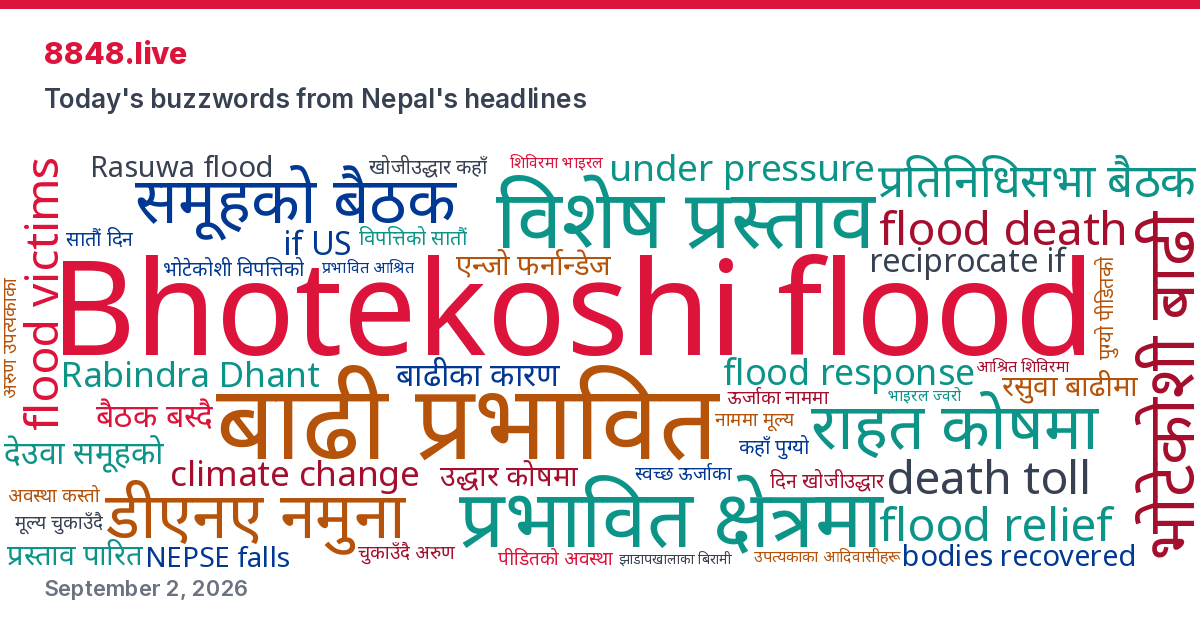
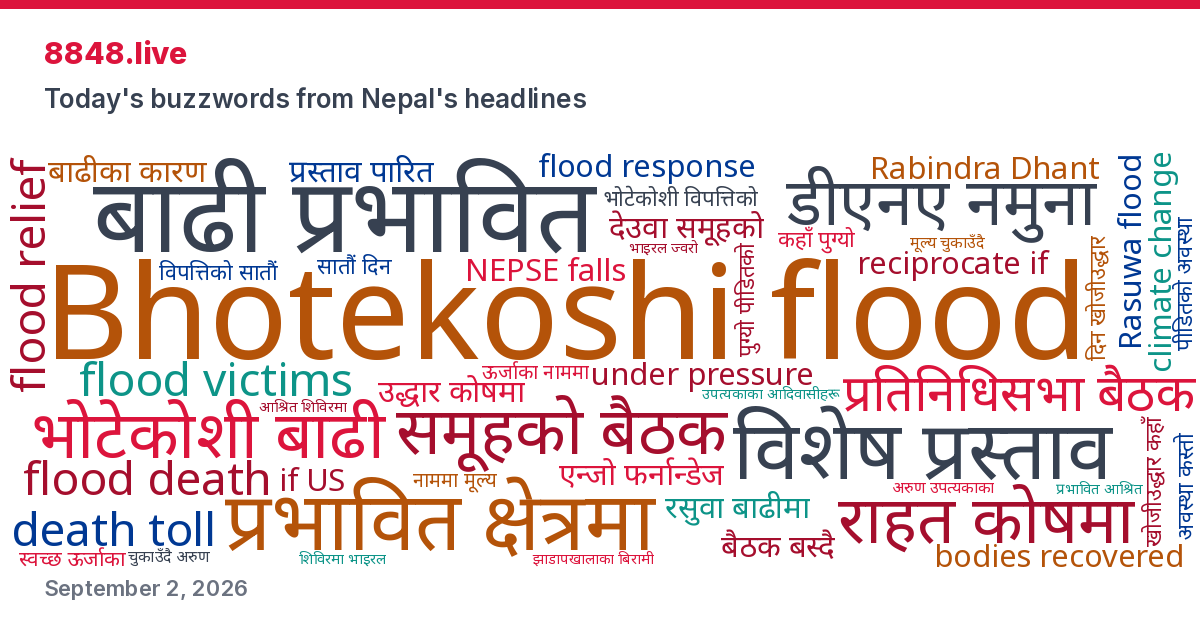
Fix generate_share_images.py for category-box format; regenerate Sept 2 share cards
parse_post()'s outlet-box split/name regexes assumed the old single-outlet,
plain-text outlet-name markup. Updated both to also match the category-box
format's class="outlet-box category-box..." variants and its nested
bilingual <span data-lang-en>/<span data-lang-np> outlet-name markup (falls
back to the old plain-text pattern for backward compatibility). Verified via
a dry-run parse against the new Sept 2 post (all 10 categories detected) and
a full run that produced clean per-category share PNGs + OG share pages.

diff --git a/share/2026-09-02/infrastructure-economic-damage/index.html b/share/2026-09-02/infrastructure-economic-damage/index.html
@@ -1,0 +1,26 @@
+<!DOCTYPE html>
+<html lang="en">
+<head>
+<meta charset="utf-8">
+<title>Infrastructure &amp; Economic Damage — top headlines, September 2, 2026</title>
+<meta property="og:type" content="article">
+<meta property="og:title" content="Infrastructure &amp; Economic Damage — top headlines, September 2, 2026">
+<meta property="og:description" content="Today&#x27;s top headlines from Infrastructure &amp; Economic Damage, via 8848.live.">
+<meta property="og:image" content="https://8848.live/assets/shares/2026-09-02/infrastructure-economic-damage.png">
+<meta property="og:image:secure_url" content="https://8848.live/assets/shares/2026-09-02/infrastructure-economic-damage.png">
+<meta property="og:image:type" content="image/png">
+<meta property="og:image:width" content="1200">
+<meta property="og:image:height" content="630">
+<meta property="og:url" content="https://8848.live/share/2026-09-02/infrastructure-economic-damage/">
+<meta property="og:site_name" content="8848.live">
+<meta name="twitter:card" content="summary_large_image">
+<meta name="twitter:title" content="Infrastructure &amp; Economic Damage — top headlines, September 2, 2026">
+<meta name="twitter:description" content="Today&#x27;s top headlines from Infrastructure &amp; Economic Damage, via 8848.live.">
+<meta name="twitter:image" content="https://8848.live/assets/shares/2026-09-02/infrastructure-economic-damage.png">
+<link rel="canonical" href="https://8848.live/2026/09/02/nepal-news-digest/#outlet-infrastructure-economic-damage">
+</head>
+<body>
+<p>Redirecting to <a href="https://8848.live/2026/09/02/nepal-news-digest/#outlet-infrastructure-economic-damage">the full digest</a>&hellip;</p>
+<script>setTimeout(function () { location.replace("https://8848.live/2026/09/02/nepal-news-digest/#outlet-infrastructure-economic-damage"); }, 300);</script>
+</body>
+</html>

diff --git a/share/2026-09-02/tunnel-hydropower-rescue/index.html b/share/2026-09-02/tunnel-hydropower-rescue/index.html
@@ -1,0 +1,26 @@
+<!DOCTYPE html>
+<html lang="en">
+<head>
+<meta charset="utf-8">
+<title>Tunnel &amp; Hydropower Rescue — top headlines, September 2, 2026</title>
+<meta property="og:type" content="article">
+<meta property="og:title" content="Tunnel &amp; Hydropower Rescue — top headlines, September 2, 2026">
+<meta property="og:description" content="Today&#x27;s top headlines from Tunnel &amp; Hydropower Rescue, via 8848.live.">
+<meta property="og:image" content="https://8848.live/assets/shares/2026-09-02/tunnel-hydropower-rescue.png">
+<meta property="og:image:secure_url" content="https://8848.live/assets/shares/2026-09-02/tunnel-hydropower-rescue.png">
+<meta property="og:image:type" content="image/png">
+<meta property="og:image:width" content="1200">
+<meta property="og:image:height" content="630">
+<meta property="og:url" content="https://8848.live/share/2026-09-02/tunnel-hydropower-rescue/">
+<meta property="og:site_name" content="8848.live">
+<meta name="twitter:card" content="summary_large_image">
+<meta name="twitter:title" content="Tunnel &amp; Hydropower Rescue — top headlines, September 2, 2026">
+<meta name="twitter:description" content="Today&#x27;s top headlines from Tunnel &amp; Hydropower Rescue, via 8848.live.">
+<meta name="twitter:image" content="https://8848.live/assets/shares/2026-09-02/tunnel-hydropower-rescue.png">
+<link rel="canonical" href="https://8848.live/2026/09/02/nepal-news-digest/#outlet-tunnel-hydropower-rescue">
+</head>
+<body>
+<p>Redirecting to <a href="https://8848.live/2026/09/02/nepal-news-digest/#outlet-tunnel-hydropower-rescue">the full digest</a>&hellip;</p>
+<script>setTimeout(function () { location.replace("https://8848.live/2026/09/02/nepal-news-digest/#outlet-tunnel-hydropower-rescue"); }, 300);</script>
+</body>
+</html>

diff --git a/share/2026-09-02/weather-additional-risk/index.html b/share/2026-09-02/weather-additional-risk/index.html
@@ -1,0 +1,26 @@
+<!DOCTYPE html>
+<html lang="en">
+<head>
+<meta charset="utf-8">
+<title>Weather &amp; Additional Risk — top headlines, September 2, 2026</title>
+<meta property="og:type" content="article">
+<meta property="og:title" content="Weather &amp; Additional Risk — top headlines, September 2, 2026">
+<meta property="og:description" content="Today&#x27;s top headlines from Weather &amp; Additional Risk, via 8848.live.">
+<meta property="og:image" content="https://8848.live/assets/shares/2026-09-02/weather-additional-risk.png">
+<meta property="og:image:secure_url" content="https://8848.live/assets/shares/2026-09-02/weather-additional-risk.png">
+<meta property="og:image:type" content="image/png">
+<meta property="og:image:width" content="1200">
+<meta property="og:image:height" content="630">
+<meta property="og:url" content="https://8848.live/share/2026-09-02/weather-additional-risk/">
+<meta property="og:site_name" content="8848.live">
+<meta name="twitter:card" content="summary_large_image">
+<meta name="twitter:title" content="Weather &amp; Additional Risk — top headlines, September 2, 2026">
+<meta name="twitter:description" content="Today&#x27;s top headlines from Weather &amp; Additional Risk, via 8848.live.">
+<meta name="twitter:image" content="https://8848.live/assets/shares/2026-09-02/weather-additional-risk.png">
+<link rel="canonical" href="https://8848.live/2026/09/02/nepal-news-digest/#outlet-weather-additional-risk">
+</head>
+<body>
+<p>Redirecting to <a href="https://8848.live/2026/09/02/nepal-news-digest/#outlet-weather-additional-risk">the full digest</a>&hellip;</p>
+<script>setTimeout(function () { location.replace("https://8848.live/2026/09/02/nepal-news-digest/#outlet-weather-additional-risk"); }, 300);</script>
+</body>
+</html>

diff --git a/share/2026-09-02/post-flood-health-crisis/index.html b/share/2026-09-02/post-flood-health-crisis/index.html
@@ -1,0 +1,26 @@
+<!DOCTYPE html>
+<html lang="en">
+<head>
+<meta charset="utf-8">
+<title>Post-flood Health Crisis — top headlines, September 2, 2026</title>
+<meta property="og:type" content="article">
+<meta property="og:title" content="Post-flood Health Crisis — top headlines, September 2, 2026">
+<meta property="og:description" content="Today&#x27;s top headlines from Post-flood Health Crisis, via 8848.live.">
+<meta property="og:image" content="https://8848.live/assets/shares/2026-09-02/post-flood-health-crisis.png">
+<meta property="og:image:secure_url" content="https://8848.live/assets/shares/2026-09-02/post-flood-health-crisis.png">
+<meta property="og:image:type" content="image/png">
+<meta property="og:image:width" content="1200">
+<meta property="og:image:height" content="630">
+<meta property="og:url" content="https://8848.live/share/2026-09-02/post-flood-health-crisis/">
+<meta property="og:site_name" content="8848.live">
+<meta name="twitter:card" content="summary_large_image">
+<meta name="twitter:title" content="Post-flood Health Crisis — top headlines, September 2, 2026">
+<meta name="twitter:description" content="Today&#x27;s top headlines from Post-flood Health Crisis, via 8848.live.">
+<meta name="twitter:image" content="https://8848.live/assets/shares/2026-09-02/post-flood-health-crisis.png">
+<link rel="canonical" href="https://8848.live/2026/09/02/nepal-news-digest/#outlet-post-flood-health-crisis">
+</head>
+<body>
+<p>Redirecting to <a href="https://8848.live/2026/09/02/nepal-news-digest/#outlet-post-flood-health-crisis">the full digest</a>&hellip;</p>
+<script>setTimeout(function () { location.replace("https://8848.live/2026/09/02/nepal-news-digest/#outlet-post-flood-health-crisis"); }, 300);</script>
+</body>
+</html>

diff --git a/share/2026-09-02/entertainment-culture/index.html b/share/2026-09-02/entertainment-culture/index.html
@@ -1,0 +1,26 @@
+<!DOCTYPE html>
+<html lang="en">
+<head>
+<meta charset="utf-8">
+<title>Entertainment &amp; Culture — top headlines, September 2, 2026</title>
+<meta property="og:type" content="article">
+<meta property="og:title" content="Entertainment &amp; Culture — top headlines, September 2, 2026">
+<meta property="og:description" content="Today&#x27;s top headlines from Entertainment &amp; Culture, via 8848.live.">
+<meta property="og:image" content="https://8848.live/assets/shares/2026-09-02/entertainment-culture.png">
+<meta property="og:image:secure_url" content="https://8848.live/assets/shares/2026-09-02/entertainment-culture.png">
+<meta property="og:image:type" content="image/png">
+<meta property="og:image:width" content="1200">
+<meta property="og:image:height" content="630">
+<meta property="og:url" content="https://8848.live/share/2026-09-02/entertainment-culture/">
+<meta property="og:site_name" content="8848.live">
+<meta name="twitter:card" content="summary_large_image">
+<meta name="twitter:title" content="Entertainment &amp; Culture — top headlines, September 2, 2026">
+<meta name="twitter:description" content="Today&#x27;s top headlines from Entertainment &amp; Culture, via 8848.live.">
+<meta name="twitter:image" content="https://8848.live/assets/shares/2026-09-02/entertainment-culture.png">
+<link rel="canonical" href="https://8848.live/2026/09/02/nepal-news-digest/#outlet-entertainment-culture">
+</head>
+<body>
+<p>Redirecting to <a href="https://8848.live/2026/09/02/nepal-news-digest/#outlet-entertainment-culture">the full digest</a>&hellip;</p>
+<script>setTimeout(function () { location.replace("https://8848.live/2026/09/02/nepal-news-digest/#outlet-entertainment-culture"); }, 300);</script>
+</body>
+</html>

diff --git a/share/2026-09-02/relief-fund-donations/index.html b/share/2026-09-02/relief-fund-donations/index.html
@@ -1,0 +1,26 @@
+<!DOCTYPE html>
+<html lang="en">
+<head>
+<meta charset="utf-8">
+<title>Relief Fund &amp; Donations — top headlines, September 2, 2026</title>
+<meta property="og:type" content="article">
+<meta property="og:title" content="Relief Fund &amp; Donations — top headlines, September 2, 2026">
+<meta property="og:description" content="Today&#x27;s top headlines from Relief Fund &amp; Donations, via 8848.live.">
+<meta property="og:image" content="https://8848.live/assets/shares/2026-09-02/relief-fund-donations.png">
+<meta property="og:image:secure_url" content="https://8848.live/assets/shares/2026-09-02/relief-fund-donations.png">
+<meta property="og:image:type" content="image/png">
+<meta property="og:image:width" content="1200">
+<meta property="og:image:height" content="630">
+<meta property="og:url" content="https://8848.live/share/2026-09-02/relief-fund-donations/">
+<meta property="og:site_name" content="8848.live">
+<meta name="twitter:card" content="summary_large_image">
+<meta name="twitter:title" content="Relief Fund &amp; Donations — top headlines, September 2, 2026">
+<meta name="twitter:description" content="Today&#x27;s top headlines from Relief Fund &amp; Donations, via 8848.live.">
+<meta name="twitter:image" content="https://8848.live/assets/shares/2026-09-02/relief-fund-donations.png">
+<link rel="canonical" href="https://8848.live/2026/09/02/nepal-news-digest/#outlet-relief-fund-donations">
+</head>
+<body>
+<p>Redirecting to <a href="https://8848.live/2026/09/02/nepal-news-digest/#outlet-relief-fund-donations">the full digest</a>&hellip;</p>
+<script>setTimeout(function () { location.replace("https://8848.live/2026/09/02/nepal-news-digest/#outlet-relief-fund-donations"); }, 300);</script>
+</body>
+</html>

diff --git a/share/2026-09-02/missing-persons-update/index.html b/share/2026-09-02/missing-persons-update/index.html
@@ -1,0 +1,26 @@
+<!DOCTYPE html>
+<html lang="en">
+<head>
+<meta charset="utf-8">
+<title>Missing Persons Update — top headlines, September 2, 2026</title>
+<meta property="og:type" content="article">
+<meta property="og:title" content="Missing Persons Update — top headlines, September 2, 2026">
+<meta property="og:description" content="Today&#x27;s top headlines from Missing Persons Update, via 8848.live.">
+<meta property="og:image" content="https://8848.live/assets/shares/2026-09-02/missing-persons-update.png">
+<meta property="og:image:secure_url" content="https://8848.live/assets/shares/2026-09-02/missing-persons-update.png">
+<meta property="og:image:type" content="image/png">
+<meta property="og:image:width" content="1200">
+<meta property="og:image:height" content="630">
+<meta property="og:url" content="https://8848.live/share/2026-09-02/missing-persons-update/">
+<meta property="og:site_name" content="8848.live">
+<meta name="twitter:card" content="summary_large_image">
+<meta name="twitter:title" content="Missing Persons Update — top headlines, September 2, 2026">
+<meta name="twitter:description" content="Today&#x27;s top headlines from Missing Persons Update, via 8848.live.">
+<meta name="twitter:image" content="https://8848.live/assets/shares/2026-09-02/missing-persons-update.png">
+<link rel="canonical" href="https://8848.live/2026/09/02/nepal-news-digest/#outlet-missing-persons-update">
+</head>
+<body>
+<p>Redirecting to <a href="https://8848.live/2026/09/02/nepal-news-digest/#outlet-missing-persons-update">the full digest</a>&hellip;</p>
+<script>setTimeout(function () { location.replace("https://8848.live/2026/09/02/nepal-news-digest/#outlet-missing-persons-update"); }, 300);</script>
+</body>
+</html>

diff --git a/share/2026-09-02/politics-governance/index.html b/share/2026-09-02/politics-governance/index.html
@@ -1,0 +1,26 @@
+<!DOCTYPE html>
+<html lang="en">
+<head>
+<meta charset="utf-8">
+<title>Politics &amp; Governance — top headlines, September 2, 2026</title>
+<meta property="og:type" content="article">
+<meta property="og:title" content="Politics &amp; Governance — top headlines, September 2, 2026">
+<meta property="og:description" content="Today&#x27;s top headlines from Politics &amp; Governance, via 8848.live.">
+<meta property="og:image" content="https://8848.live/assets/shares/2026-09-02/politics-governance.png">
+<meta property="og:image:secure_url" content="https://8848.live/assets/shares/2026-09-02/politics-governance.png">
+<meta property="og:image:type" content="image/png">
+<meta property="og:image:width" content="1200">
+<meta property="og:image:height" content="630">
+<meta property="og:url" content="https://8848.live/share/2026-09-02/politics-governance/">
+<meta property="og:site_name" content="8848.live">
+<meta name="twitter:card" content="summary_large_image">
+<meta name="twitter:title" content="Politics &amp; Governance — top headlines, September 2, 2026">
+<meta name="twitter:description" content="Today&#x27;s top headlines from Politics &amp; Governance, via 8848.live.">
+<meta name="twitter:image" content="https://8848.live/assets/shares/2026-09-02/politics-governance.png">
+<link rel="canonical" href="https://8848.live/2026/09/02/nepal-news-digest/#outlet-politics-governance">
+</head>
+<body>
+<p>Redirecting to <a href="https://8848.live/2026/09/02/nepal-news-digest/#outlet-politics-governance">the full digest</a>&hellip;</p>
+<script>setTimeout(function () { location.replace("https://8848.live/2026/09/02/nepal-news-digest/#outlet-politics-governance"); }, 300);</script>
+</body>
+</html>

diff --git a/share/2026-09-02/sports/index.html b/share/2026-09-02/sports/index.html
@@ -1,0 +1,26 @@
+<!DOCTYPE html>
+<html lang="en">
+<head>
+<meta charset="utf-8">
+<title>Sports — top headlines, September 2, 2026</title>
+<meta property="og:type" content="article">
+<meta property="og:title" content="Sports — top headlines, September 2, 2026">
+<meta property="og:description" content="Today&#x27;s top headlines from Sports, via 8848.live.">
+<meta property="og:image" content="https://8848.live/assets/shares/2026-09-02/sports.png">
+<meta property="og:image:secure_url" content="https://8848.live/assets/shares/2026-09-02/sports.png">
+<meta property="og:image:type" content="image/png">
+<meta property="og:image:width" content="1200">
+<meta property="og:image:height" content="630">
+<meta property="og:url" content="https://8848.live/share/2026-09-02/sports/">
+<meta property="og:site_name" content="8848.live">
+<meta name="twitter:card" content="summary_large_image">
+<meta name="twitter:title" content="Sports — top headlines, September 2, 2026">
+<meta name="twitter:description" content="Today&#x27;s top headlines from Sports, via 8848.live.">
+<meta name="twitter:image" content="https://8848.live/assets/shares/2026-09-02/sports.png">
+<link rel="canonical" href="https://8848.live/2026/09/02/nepal-news-digest/#outlet-sports">
+</head>
+<body>
+<p>Redirecting to <a href="https://8848.live/2026/09/02/nepal-news-digest/#outlet-sports">the full digest</a>&hellip;</p>
+<script>setTimeout(function () { location.replace("https://8848.live/2026/09/02/nepal-news-digest/#outlet-sports"); }, 300);</script>
+</body>
+</html>

diff --git a/share/2026-09-02/world/index.html b/share/2026-09-02/world/index.html
@@ -1,0 +1,26 @@
+<!DOCTYPE html>
+<html lang="en">
+<head>
+<meta charset="utf-8">
+<title>World — top headlines, September 2, 2026</title>
+<meta property="og:type" content="article">
+<meta property="og:title" content="World — top headlines, September 2, 2026">
+<meta property="og:description" content="Today&#x27;s top headlines from World, via 8848.live.">
+<meta property="og:image" content="https://8848.live/assets/shares/2026-09-02/world.png">
+<meta property="og:image:secure_url" content="https://8848.live/assets/shares/2026-09-02/world.png">
+<meta property="og:image:type" content="image/png">
+<meta property="og:image:width" content="1200">
+<meta property="og:image:height" content="630">
+<meta property="og:url" content="https://8848.live/share/2026-09-02/world/">
+<meta property="og:site_name" content="8848.live">
+<meta name="twitter:card" content="summary_large_image">
+<meta name="twitter:title" content="World — top headlines, September 2, 2026">
+<meta name="twitter:description" content="Today&#x27;s top headlines from World, via 8848.live.">
+<meta name="twitter:image" content="https://8848.live/assets/shares/2026-09-02/world.png">
+<link rel="canonical" href="https://8848.live/2026/09/02/nepal-news-digest/#outlet-world">
+</head>
+<body>
+<p>Redirecting to <a href="https://8848.live/2026/09/02/nepal-news-digest/#outlet-world">the full digest</a>&hellip;</p>
+<script>setTimeout(function () { location.replace("https://8848.live/2026/09/02/nepal-news-digest/#outlet-world"); }, 300);</script>
+</body>
+</html>

diff --git a/share/2026-09-02/wordcloud/index.html b/share/2026-09-02/wordcloud/index.html
@@ -2,9 +2,9 @@
 <html lang="en">
 <head>
 <meta charset="utf-8">
-<title>Today&#x27;s buzzwords — Nepal News Digest: September 2, 2026</title>
+<title>Today&#x27;s buzzwords — Daily News Digest: September 2, 2026</title>
 <meta property="og:type" content="article">
-<meta property="og:title" content="Today&#x27;s buzzwords — Nepal News Digest: September 2, 2026">
+<meta property="og:title" content="Today&#x27;s buzzwords — Daily News Digest: September 2, 2026">
 <meta property="og:description" content="See what words defined today&#x27;s Nepali news headlines, via 8848.live.">
 <meta property="og:image" content="https://8848.live/assets/shares/2026-09-02/wordcloud.png">
 <meta property="og:image:secure_url" content="https://8848.live/assets/shares/2026-09-02/wordcloud.png">
@@ -14,7 +14,7 @@
 <meta property="og:url" content="https://8848.live/share/2026-09-02/wordcloud/">
 <meta property="og:site_name" content="8848.live">
 <meta name="twitter:card" content="summary_large_image">
-<meta name="twitter:title" content="Today&#x27;s buzzwords — Nepal News Digest: September 2, 2026">
+<meta name="twitter:title" content="Today&#x27;s buzzwords — Daily News Digest: September 2, 2026">
 <meta name="twitter:description" content="See what words defined today&#x27;s Nepali news headlines, via 8848.live.">
 <meta name="twitter:image" content="https://8848.live/assets/shares/2026-09-02/wordcloud.png">
 <link rel="canonical" href="https://8848.live/2026/09/02/nepal-news-digest/#wordcloud">

diff --git a/scripts/generate_share_images.py b/scripts/generate_share_images.py
@@ -198,10 +198,16 @@ def parse_post(md_path):
     words = front.get('wordcloud') or []
 
     outlets = []
-    for box_html in re.split(r'(?=<div class="outlet-box">)', body):
-        if '<div class="outlet-box">' not in box_html:
+    for box_html in re.split(r'(?=<div class="outlet-box)', body):
+        if '<div class="outlet-box' not in box_html:
             continue
-        name_m = re.search(r'<span class="outlet-name">([^<]+)</span>', box_html)
+        # New (category-digest) format nests bilingual spans inside outlet-name,
+        # e.g. <span class="outlet-name"><span data-lang-en>X</span><span data-lang-np>Y</span></span>
+        # -- prefer the English variant for the slug/title. Old (outlet-digest)
+        # format has plain text directly inside outlet-name -- still supported.
+        name_m = re.search(r'<span class="outlet-name">\s*<span data-lang-en>([^<]+)</span>', box_html, re.DOTALL)
+        if not name_m:
+            name_m = re.search(r'<span class="outlet-name">([^<]+)</span>', box_html)
         if not name_m:
             continue
         name = html.unescape(name_m.group(1).strip())
